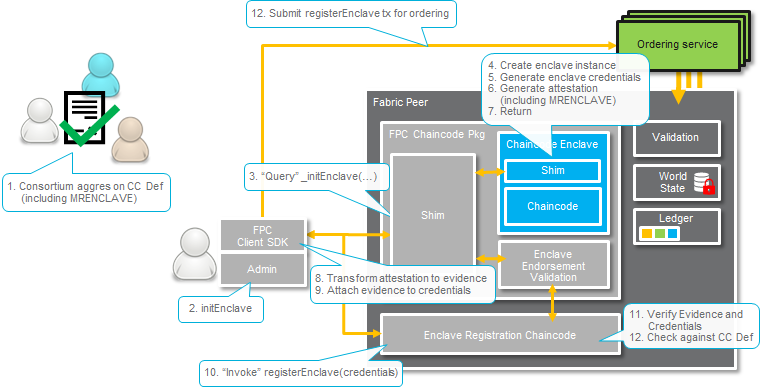
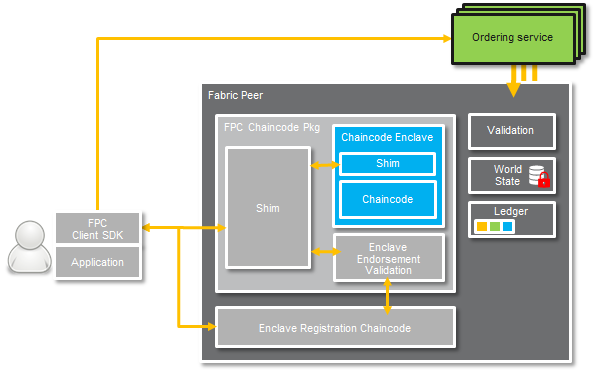
Varia
* a few changes in transaction flow to match spec and code
* fixed slide2 which was the wrong pic

diff --git a/text/0000-fabric-private-chaincode-lite.md b/text/0000-fabric-private-chaincode-lite.md
@@ -357,33 +357,34 @@ This section details the turn-up process for all elements of FPC, including an e
 
 ![Transaction](../images/fpc/high-level/Slide4.png)
 
-* Client Invocation of the FPC Chaincode
+### Client Invocation of the FPC Chaincode
 
 The client application performs an FPC chaincode invocation through the FPC Client SDK.
-The SDK appends the client's public encryption key (useful to encrypt the response) to the invocation arguments,
-and it encrypts them using the FPC chaincode's public encryption key.
-If such key is not available, the SDK will query the Enclave Registry chaincode to retrieve it.
-The encryption and key retrieval are fully transparent to the applications layer.
-Then, the SDK performs a query (with the encrypted arguments) to the FPC chaincode through a regular Fabric Client.
+If not cached locally, the SDK will query first the Enclave Registry chaincode to retrieve the FPC chaincode's public encryption key.
+The SDK then generates a symmetric key, for the encryption of the response, and encrypts it and the invocation arguments with the FPC chaincode's public encryption key.
+This encrypted message is then sent as a query to the FPC chaincode on the peer hosting the Enclave.
+Information on the location of that peer is also stored in the Enclave Registry.
+This query, as well as the query to the registry, are through calls to the regular Fabric SDK.
+All these steps arefully transparent to the applications layer.
 
-The transaction proposal reaches the Endorsing Peer where a corresponding Chaincode Enclave resides.
-For simplicity, we describe the process for a single endorsing peer -- although multiple peers might be used, depending on the endorsement policy.
-The peer forwards the transaction proposal to the FPC Shim inside the enclave where the FPC Chaincode is running.
+The query is forwarded via the peer and some clue code to the FPC Shim inside the Enclave.
+Inside the Enclave, the FPC Shim decrypts the arguments of the proposal and saves the client's response encryption key.
+After that, it invokes the FPC Chaincode with the plaintext arguments.
 
-Inside the Enclave, the FPC Shim decrypts the arguments of the proposal and saves the client's public key.
-The it invokes the FPC Chaincode with the plaintext arguments.
-
-* Chaincode Execution
+### Chaincode Execution
 
 The FPC Chaincode processes the invocation according to the implemented chaincode logic.
 While executing, the chaincode can access the World State through `getState` and `putState` operations provided by the FPC Shim. From the chaincode perspective, the arguments of the former, and the output the latter, are plaintext data.
 
 The FPC Shim fetches the state data from the peer and loads it into the enclave, and similarly it stores data by forwarding it to the peer.
-Most importantly, the shim maintains the read/writeset, and handles the State Encryption Key to encrypt and protect the integrity of data during store operations, and to decrypt and check the integrity of data during fetch operations.
+Most importantly, the shim maintains the read/writeset, and uses the State Encryption Key to
+(a) authenticate and encrypt data with AES-GCM during store operations, and
+(b) to decrypt and check the integrity of data during fetch operations.
 From the peer perspective, store and fetch operations have encrypted arguments and outputs.
+Note, though, that while values are encrypted, the keys are maintained in cleartext and visible to the peer.
 
 An FPC Chaincode invocation completes its execution by returning a (plaintext) result to the FPC Shim.
-The FPC encrypts the result with the client's public key.
+The FPC encrypts the result with the client's response encryption key.
 Then, it produces a cryptographic signature over the input arguments, the read-write set, and the (encrypted) result.
 This is conceptually similar to the endorsement signature produced by the endorsing peer.
 
@@ -391,10 +392,10 @@ The FPC Shim completes its execution by returning the signature, the read/writes
 Finally, the peer packages the received data in transaction response and signs it.
 This is a regular Fabric endorsement, which is sent back to the client.
 
-* Enclave Endorsement Validation
+### Enclave Endorsement Validation
 
 The FPC Client SDK receives the proposal response (to the FPC Chaincode query) and starts the enclave endorsement validation.
-Recall that the response contains the enclave signature, the read/writeset and the result.
+Recall that the response contains the enclave signature, the read/writeset and the (encrypted) result.
 The FPC Client SDK performs chaincode invocation to the enclave endorsement validation, and provide the response as an argument.
 
 The enclave endorsement validation logic processes the response as follows.
